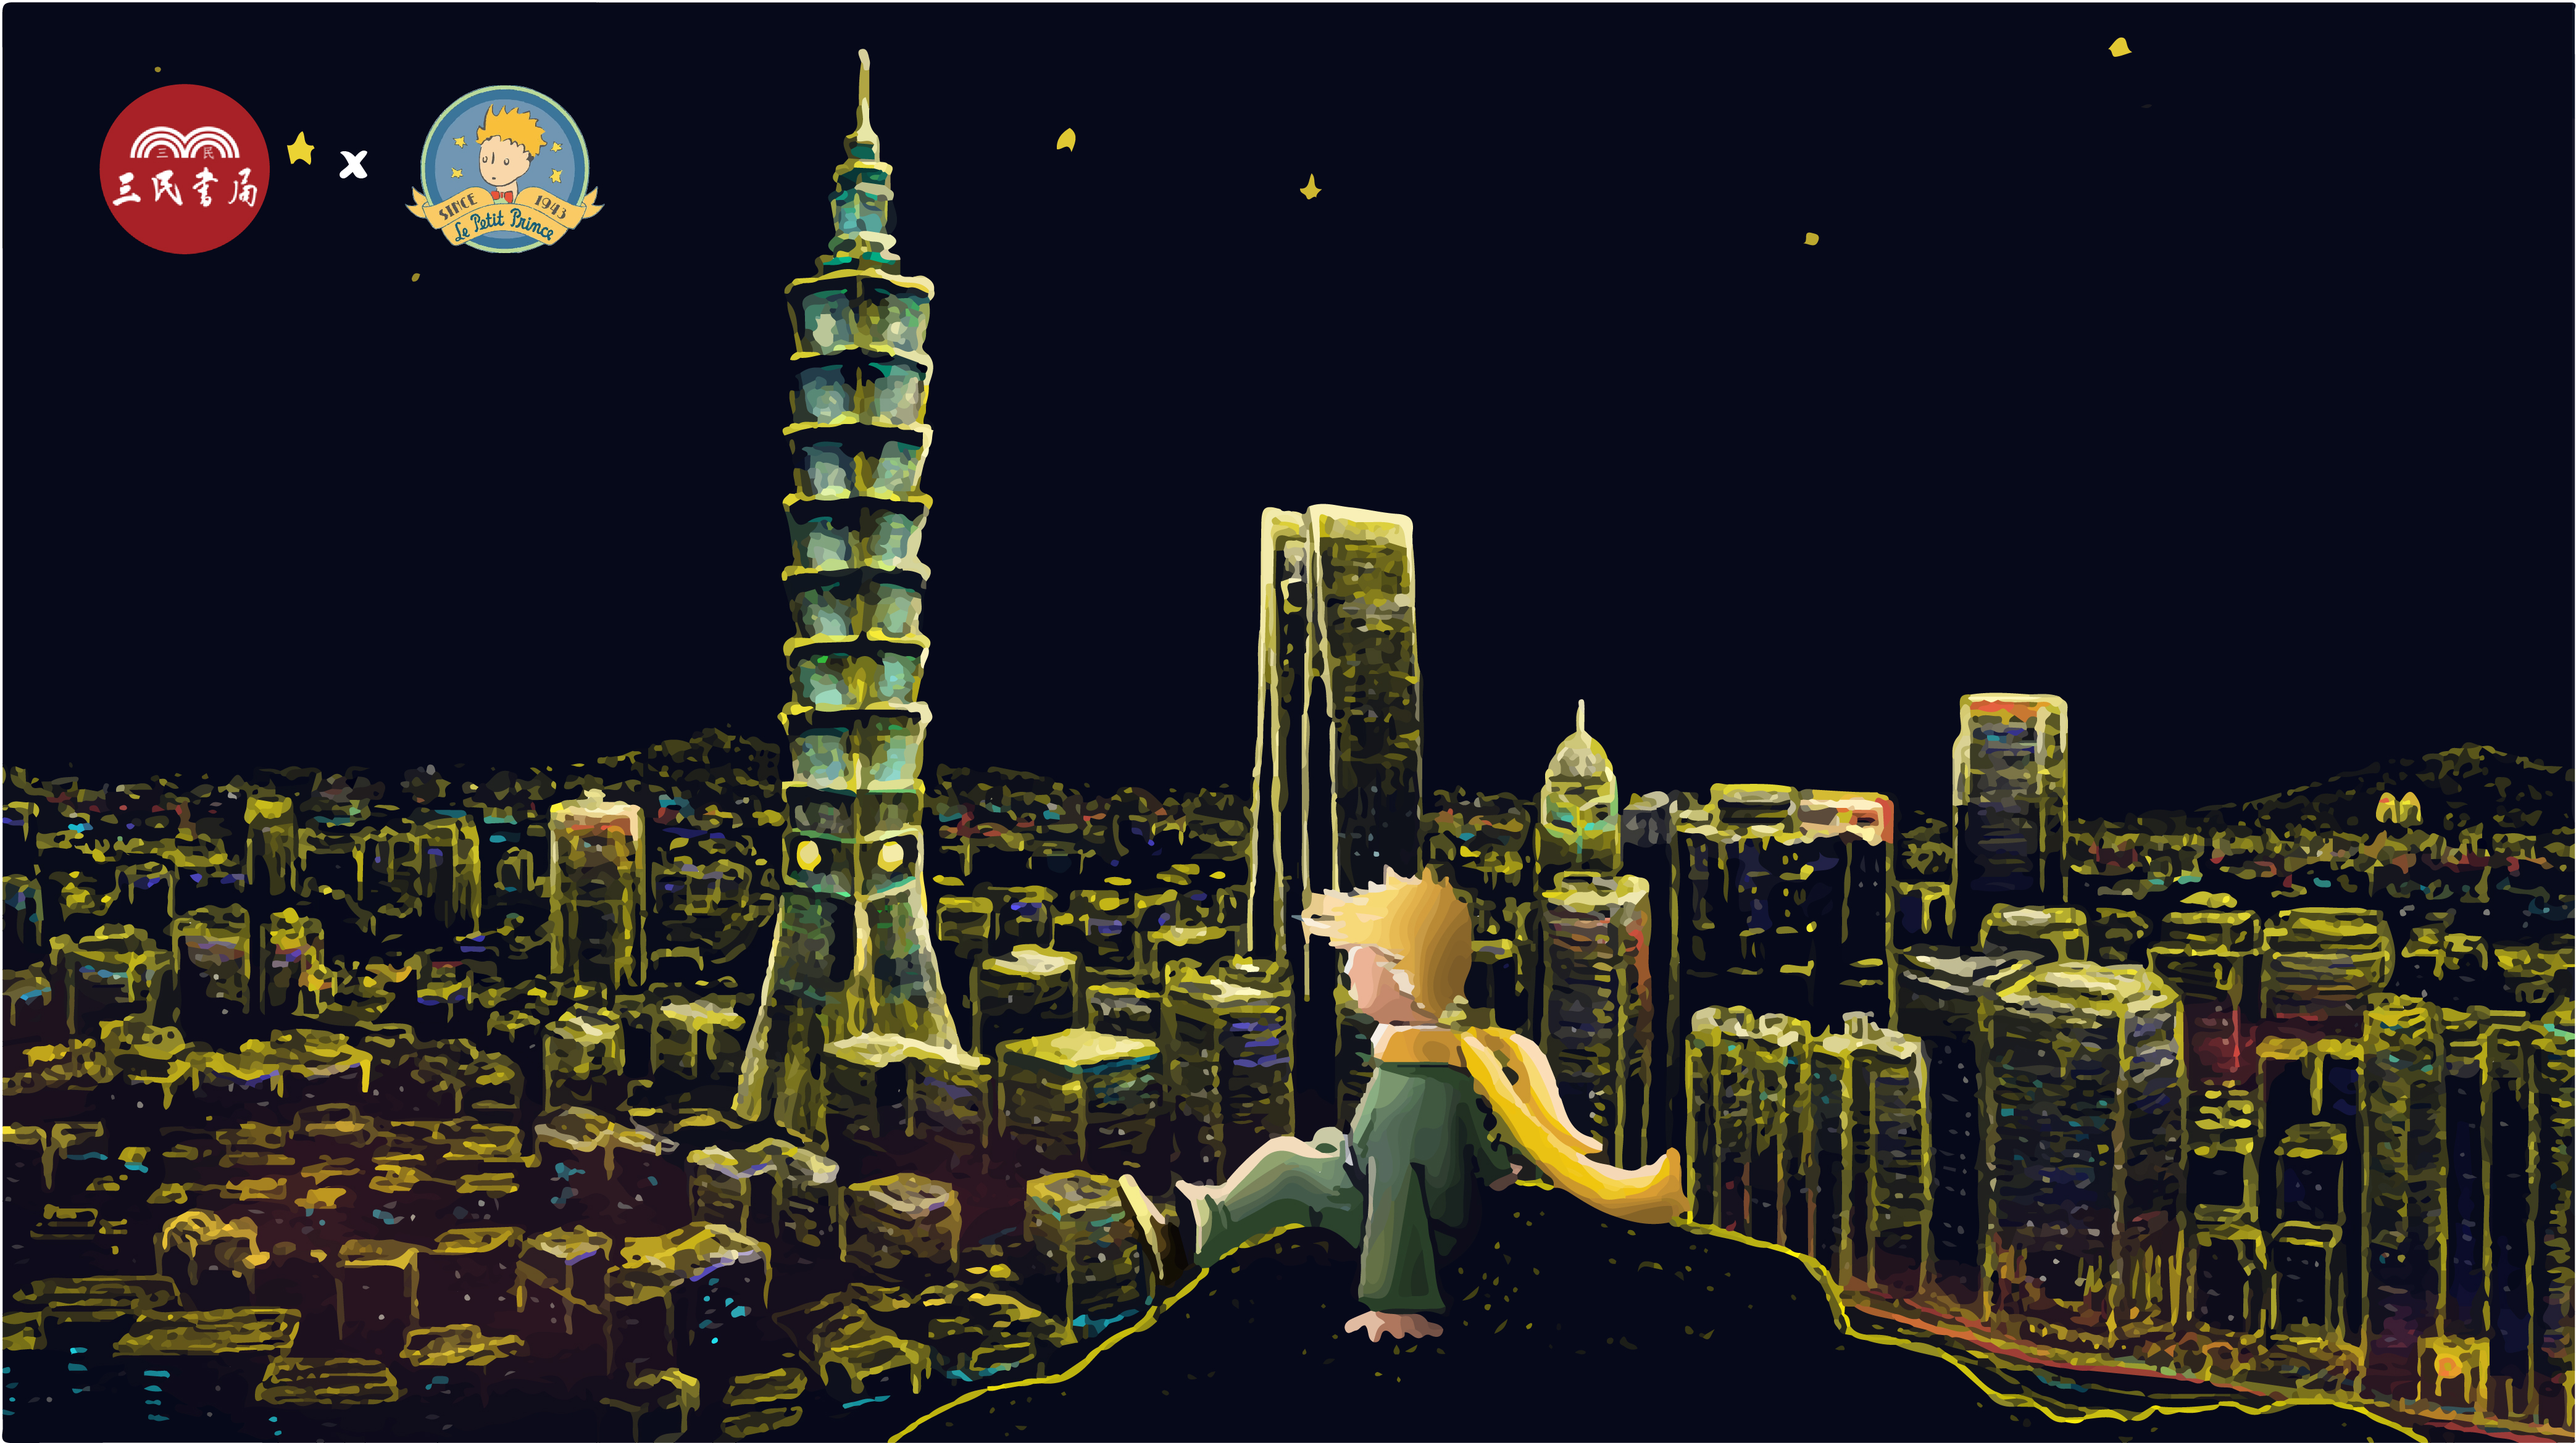
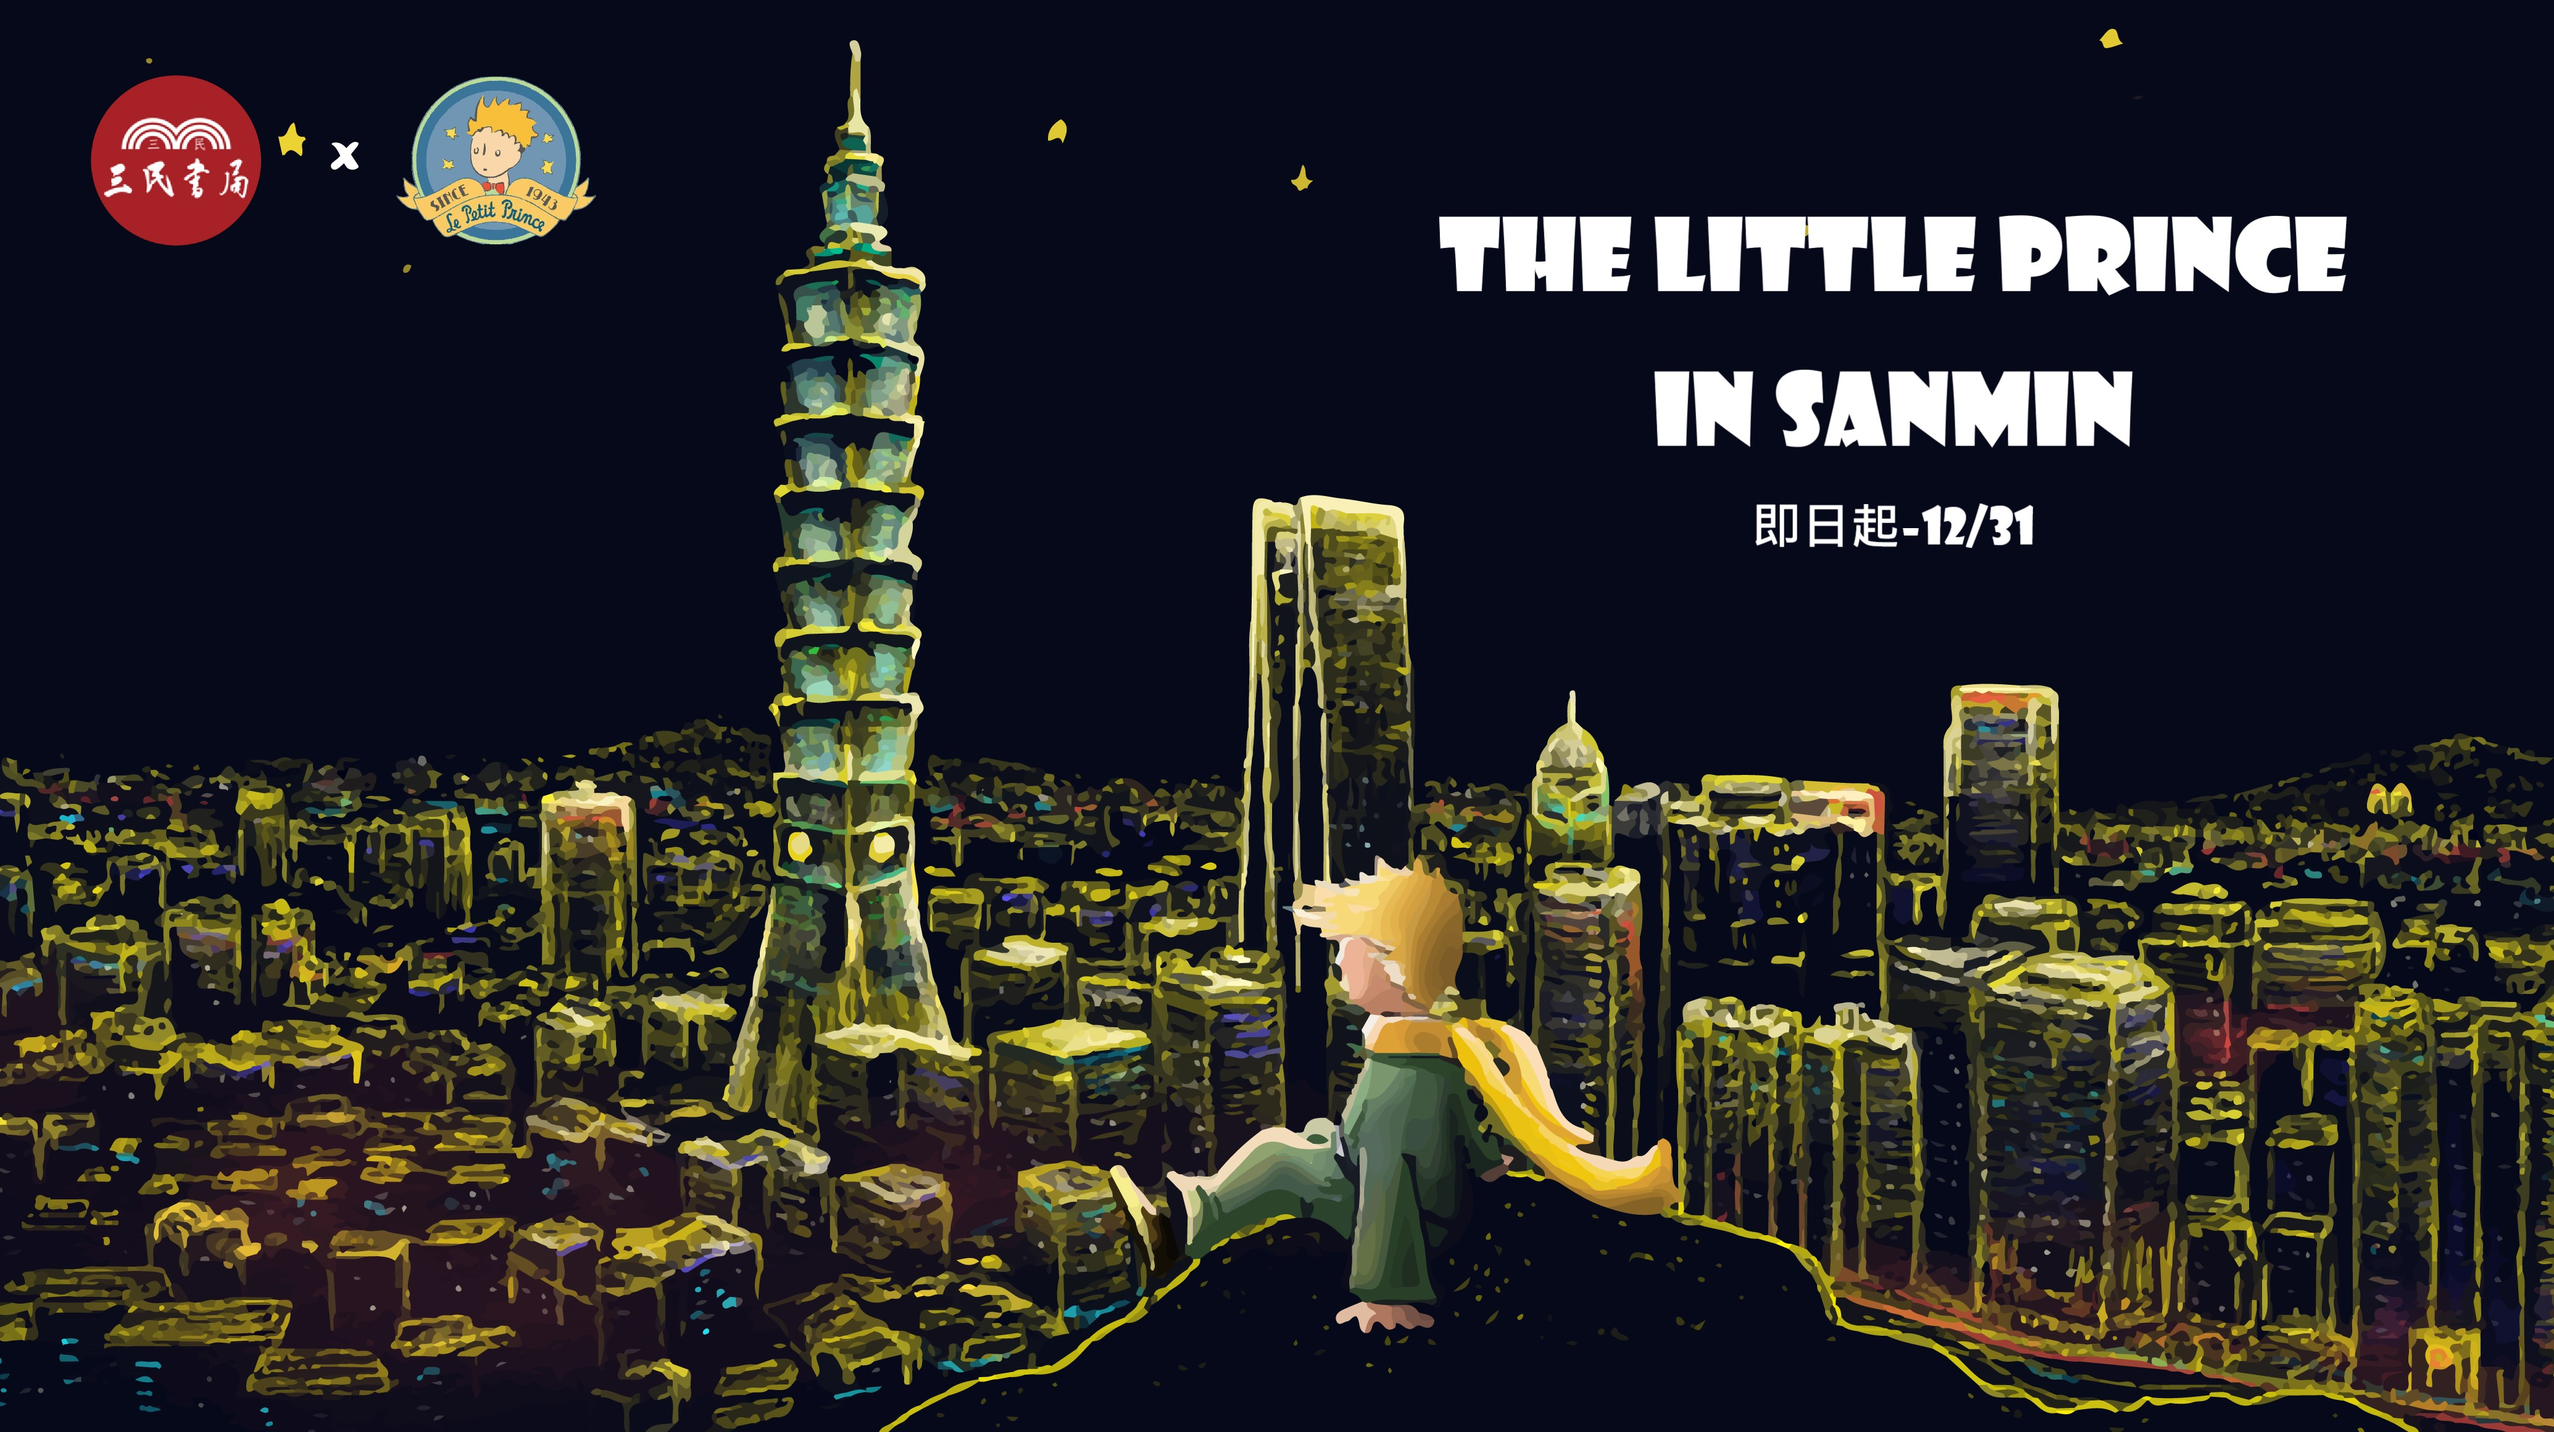
Add files via upload

diff --git a/三民書局.html b/三民書局.html
@@ -1,0 +1,70 @@
+<!doctype html>
+
+  <html>
+  <head>
+  <meta charset="utf-8">
+  <title>小王子書展</title>
+  </head>
+  <body> 
+  <div class="top" >
+	  <table align="center">
+	 <tr>
+		
+		 <td width="15%"><font color=#FFFFFF size="+8"><a href="#front">主題說明</a></td></font>
+    <td width="15%"><font color=#FFFFFF size="+8"><a href="#people">策展團隊</td></font></a>
+    <td width="15%"><font color=#FFFFFF size="+8">線上主題</td></font>
+    <td width="15%"><font color=#FFFFFF size="+8">三民網頁</td></font>
+	  </tr> 
+	  </table>
+	 <center> <img src="首頁圖.jpg"></center>
+    </div>
+<table>
+<center><font color=#FFFFFF size="20" id="front">主題說明</a></font></center>
+<tr>
+
+	<td height="30"><img src="1.jpg" width="825" height="550"></td>
+<td height="30"><font color=#FFFFFF size="+10">主題說明</font></center><font color=#FFFFFF size="+8">今年是法國版《小王子》出版75週年，香港人Steven Choi(蔡景康)繼去年以出版《小王子》法國版75週年紀念版繪本及於今年初舉辦了《小王子》 個人作品展「星の流浪曲Le Havre」後，更將於今年書展發售以《小王子》作藍本的全新故事《小王子2愛與光》。
+	</td></font>
+	</tr>
+<tr>
+	<td height="30"><img src="2.jpg"></td>
+<td height="30"><font color=#FFFFFF size="+8">在《小王子2愛與光》中，玫瑰幻化成美麗的少女，故事由小王子返回B612星球之後開始，小王子發現玫瑰不在，大受打擊，決定重新出發尋找玫瑰。Steven Choi一手包辦設計了故事的內容構思、文字撰寫，及書中的插圖，插圖採用了較實寫和深沈的畫風，將故事主角的內心、情感變化和想法描繪出來，讓讀者再三翻閱時，能發現到書中更深層的意義。全書更厚達256頁，全新插圖超過40幅，使用了9款不同優質花紋紙，並以線裝設計，內頁可以攤平，讓讀者能完整欣賞圖片。</td></font>
+</tr>
+<tr>
+	<td height="30"><img src="3.jpg"></td>
+<td height="30"><font color=#FFFFFF size="+8">攤位更特別設有闊6米乘高2.5米的巨型小王子背景板，而板上畫作是Steven新書中的其中一幅作品《老虎與雪》，《小王子》粉絲們去書展記得要去朝聖了！</td>  </font>
+</tr>
+	  
+ </table> 
+<li></li>
+<li></li>
+<li></li>
+<li></li>
+<center><font color=#FFFFFF size="10" id="people" >策展團隊</font></center>
+<li></li>
+<li></li>
+<center>
+<tr>
+<td width="20%" align="center"><img src="雷.png"></td>
+<td width="20%" align="center"><img src="史.png"></td>
+<td width="20%" align="center"><img src="比.png"></td></tr></center>
+
+
+  <div class="footer"></div>
+ <body bgcolor="#000000">
+	  
+	  
+
+	  
+	  
+	  
+  </body>
+ 
+<style>
+	.footer{height:200  }
+	a{color:#FFFFFF;}
+	
+	
+</style>	
+  </html>
+
